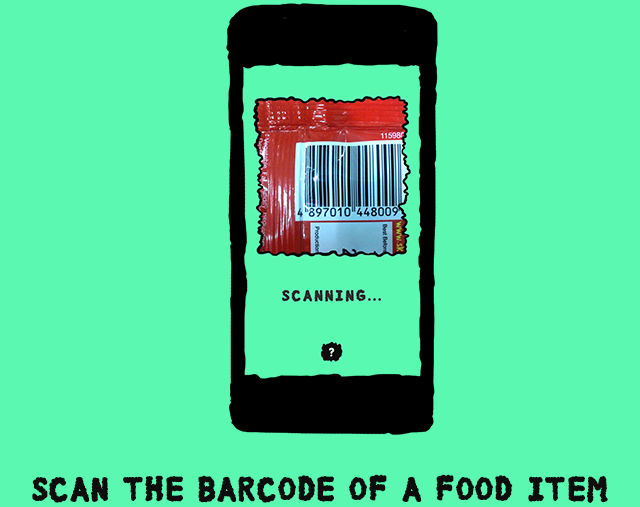
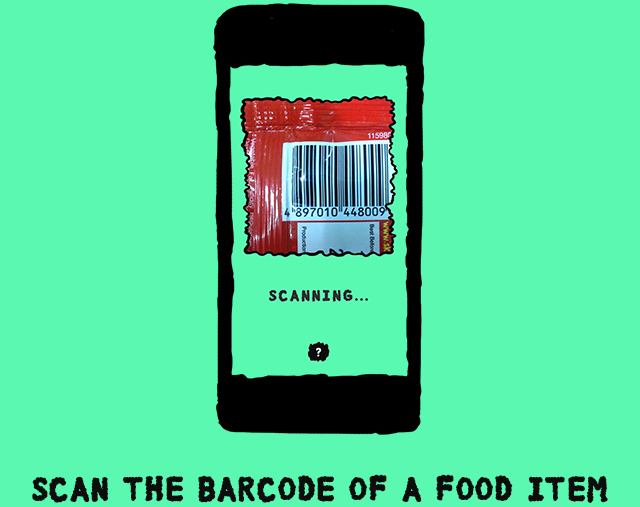
updated mobile version

Changed region(s): [[0.3125, 0.0, 0.6875, 0.858], [0.4688, 0.6509, 0.5312, 0.7396], [0.4688, 0.0, 0.5, 0.0296]]

diff --git a/css/mobile.css b/css/mobile.css
@@ -47,30 +47,29 @@ html, body { width: 100%; height: 100%; background-color: #62F6B2; }
 	VIDEO PLAYER
 */
 #video { position: relative; width: 640px; height: 580px; z-index: 100; }
+#logo { cursor: pointer; position: absolute; top: 280px; left: 0px; width: 374px; height: 389px; }
+#playbutton { position: absolute; bottom: -50px; left: 0px; width: 60px; height: 58px; }
 
-#logo { cursor: pointer; position: absolute; top: 180px; left: 0px; width: 374px; height: 389px; }
-#playbutton { cursor: pointer; position: absolute; top: 0px; left: 0px; width: 60px; height: 58px; }
-
-#videocontainer { position: absolute; top: 170px; left: 0px; width: 560px; height: 316px; display: none; }
+#videocontainer { position: absolute; top: 290px; left: 0px; width: 560px; height: 316px; display: none; }
 #player { width: 100%; height: 100%; }
 
 /*
 	INTERACTIVE INSTRUCTIONS
 */
 
-#instructions { width: 640px; position: absolute; left: 0px; top: 100px; padding-top: 43px; z-index: 10; }
+#instructions { width: 640px; position: absolute; left: 0px; top: 140px; padding-top: 43px; z-index: 10; }
 #instructions .instruction { display: none; }
 #instructions .on { display: block; }
 #instructions .visual { display: block; width: 640px; height: 507px; position: absolute; left: 0px; }
-#instructions .leftarrow { position: absolute; top: 220px; left: 66px; opacity: 1; width: 50px; height: 49px; z-index: 100; }
-#instructions .rightarrow { position: absolute; top: 220px; right: 66px; opacity: 1; width: 50px; height: 49px; z-index: 100; }
+#instructions .leftarrow { position: absolute; top: 220px; left: 58px; opacity: 1; width: 50px; height: 49px; z-index: 100; }
+#instructions .rightarrow { position: absolute; top: 220px; right: 90px; opacity: 1; width: 50px; height: 49px; z-index: 100; }
 
 
 /*
     ABOUT INSTRUCTIONS
 */
 
-#about { position: absolute; }
+#about { position: absolute; top: 240px; }
 #about p { font-size: 18px; width: 480px; text-align: center; margin-bottom: 34px; line-height: 28px; }
 #about .close { position: absolute; top: 0px; right: -65px; width: 50px; height: 49px; background: url("../img/closesection.png") top left no-repeat; }
 #about .close:hover { background-position: -50px 0px; }
@@ -79,8 +78,21 @@ html, body { width: 100%; height: 100%; background-color: #62F6B2; }
     LEGAL INSTRUCTIONS
 */
 
-#legal { position: absolute; }
+#legal { position: absolute; top: 260px; }
 #legal p { font-size: 14px; width: 640px; text-align: center; margin-bottom: 28px; line-height: 24px; }
 #legal .close { position: absolute; top: -60px; right: 14px; width: 50px; height: 49px; background: url("../img/closesection.png") top left no-repeat; }
 #legal .close:hover { background-position: -50px 0px; }
 #legal a:hover { color: #FFFFFF; }
+
+@media only screen and ( max-height: 882px ) {
+    #logo { top: 190px; }
+    #playbutton { bottom: 30px; }
+
+    #instructions { top: 70px; }
+
+    #videocontainer { top: 210px; }
+
+    #about { top: 140px; }
+    #legal { top: 185px; }
+}
+

diff --git a/js/mobile.js b/js/mobile.js
@@ -53,8 +53,7 @@ $(document).ready(function() {
 	});
 
 	$("#playbutton").css({
-		left: $("#video").width()/2 - $("#playbutton").width()/2,
-		top: $("#video").height()/2 - $("#playbutton").height()/2 + 250
+		left: $("#video").width()/2 - $("#playbutton").width()/2
 	});
 
 	$("#videocontainer").css({
@@ -63,12 +62,10 @@ $(document).ready(function() {
 
 	$("#about").css({
 		left: $(document).width()/2 - $("#about").width()/2,
-		top: $(document).height()/2 - $("#about").height()/2 - 120
 	});
 
 	$("#legal").css({
 		left: $(document).width()/2 - $("#legal").width()/2,
-		top: $(document).height()/2 - $("#legal").height()/2 - 120
 	});
 
 	// 2. This code loads the IFrame Player API code asynchronously.
@@ -104,7 +101,7 @@ $(document).ready(function() {
 		event.preventDefault();
 
 		$(".section.on").removeClass("on");
-		$("#instructions").addClass("on");
+		$("#video").addClass("on");
 		nextOrFirst();
 
 		$(this).hide();

diff --git a/js/main.js b/js/main.js
@@ -81,6 +81,21 @@ $(document).ready(function() {
 		$("#buttons").css({
 			left: $(document).width()/2 - $("#buttons").width()/2
 		});
+
+		$("#playbutton").css({
+			left: $("#video").width()/2 - $("#playbutton").width()/2,
+			top: $("#video").height()/2 - $("#playbutton").height()/2 + 150
+		});
+
+		$("#about").css({
+			left: $(document).width()/2 - $("#about").width()/2,
+			top: $(document).height()/2 - $("#about").height()/2
+		});
+
+		$("#legal").css({
+			left: $(document).width()/2 - $("#legal").width()/2,
+			top: $(document).height()/2 - $("#legal").height()/2
+		});
 	})
 
 	// 2. This code loads the IFrame Player API code asynchronously.

diff --git a/desktop.php b/desktop.php
@@ -73,9 +73,9 @@
 					<div class="rightarrow"></div>
 				</div>
 				<div id="about" class="section">
-					<p class="cloud">Telecommunication has traditionally relied on sight and sound. But what if you could touch someone from afar? Touch Room keeps your loved ones within arm's reach.</p>
-					<p class="cloud">Brought to you by the BETA Group of Goodby Silverstein &amp; Partners in San Francisco. We use technology to find interesting solutions to great problems. What we make is never final—instead we iterate and pivot.</p>
-					<p class="cloud">&copy; 2013 Goodby Silverstein &amp; Partners</p>
+					<p class="cloud">Fart Code from the GS&amp;P BETA Group.</p>
+					<p class="cloud">Get smart from your fart.<br/>Learn about nutrition the rad way.<br/>Scan food bar codes to discover their fart power.</p>
+					<p class="cloud">Brought to you by the BETA Group at Goodby Silverstein &amp; Partners in San Francisco.</p>
 					<a href="#" class="close"></a>
 				</div>
 				<div id="legal" class="section">
